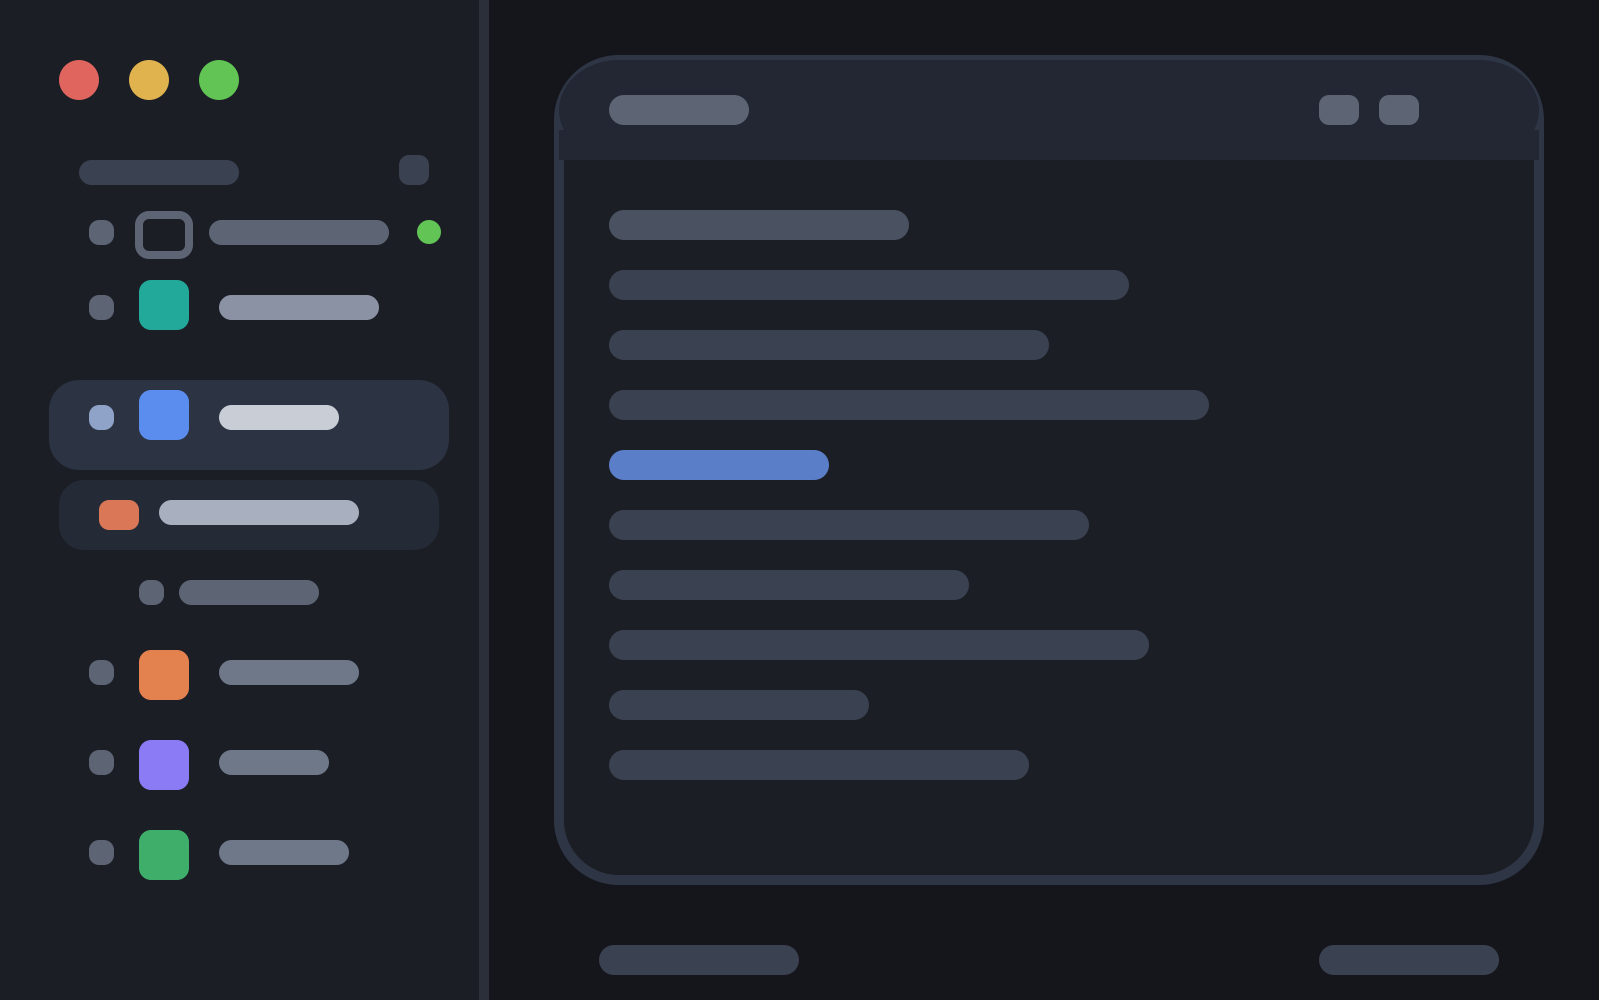
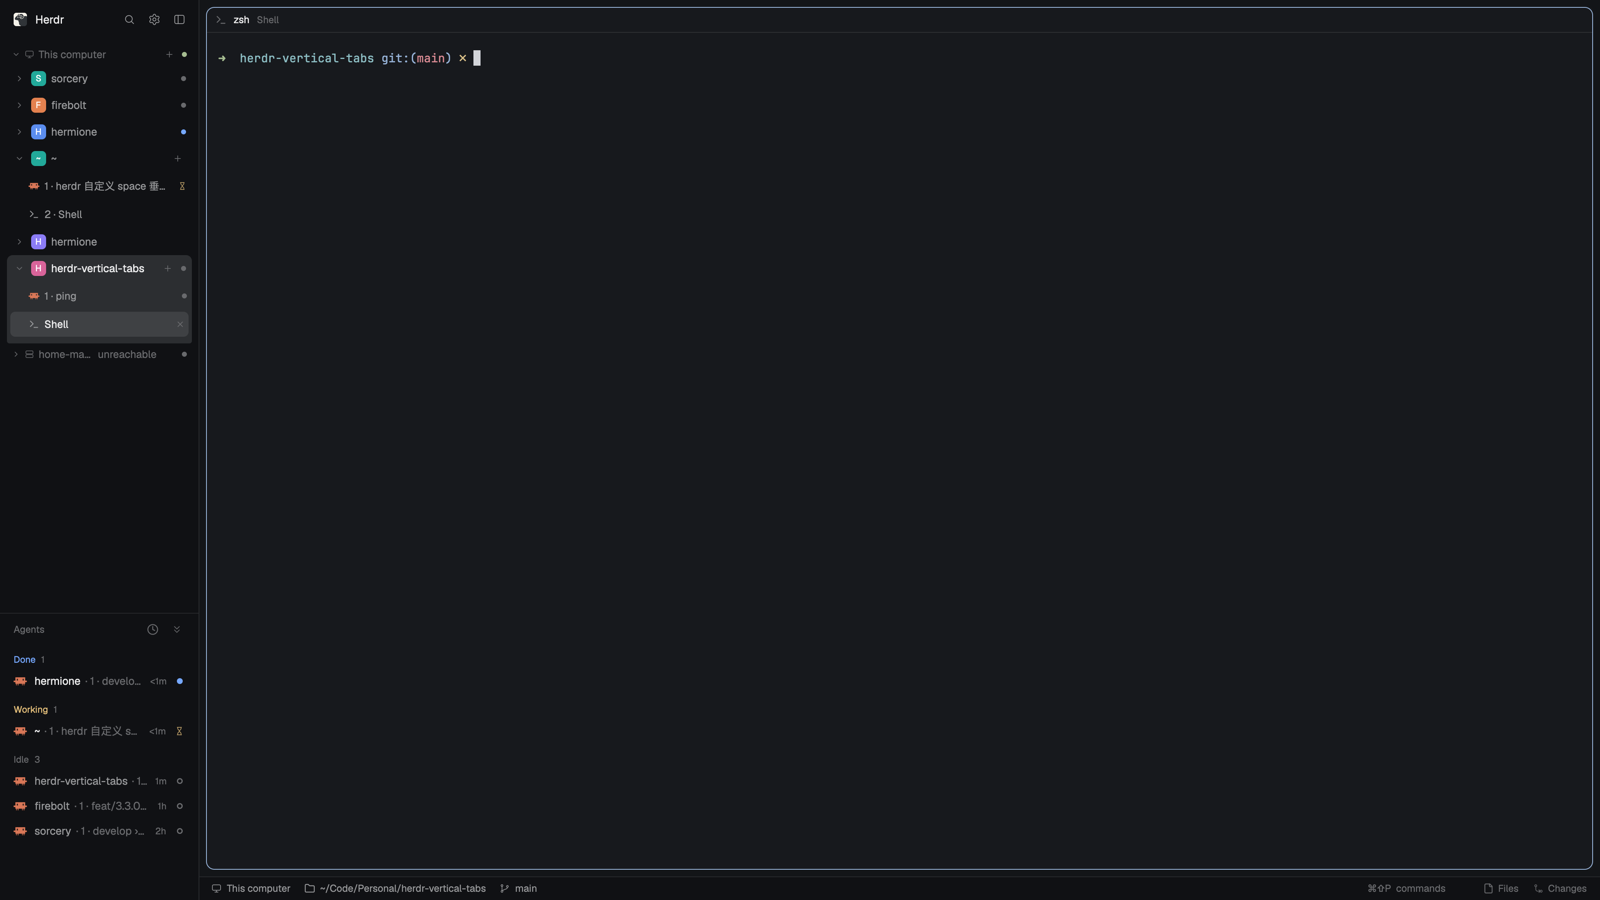
Use a real screenshot as the preview

diff --git a/RECIPE.md b/RECIPE.md
@@ -59,7 +59,7 @@ Mods:
 
 Shipped mods used as-is: `files`, `changes`, `menu`; many icons come from the shipped `mods/workspace-chrome/` assets, and `panel-toggles` uses `mods/files/file.svg` and `mods/changes/changes.svg`.
 
-The artwork in `preview.png` is an abstract structural rendering of `layouts/vertical-tabs.svg`, not a real screenshot, so it contains no folders, spaces, agent names or terminal content.
+`preview.png` is a real screenshot of the running layout; its main pane shows a clean shell.
 
 ## Watch out
 
